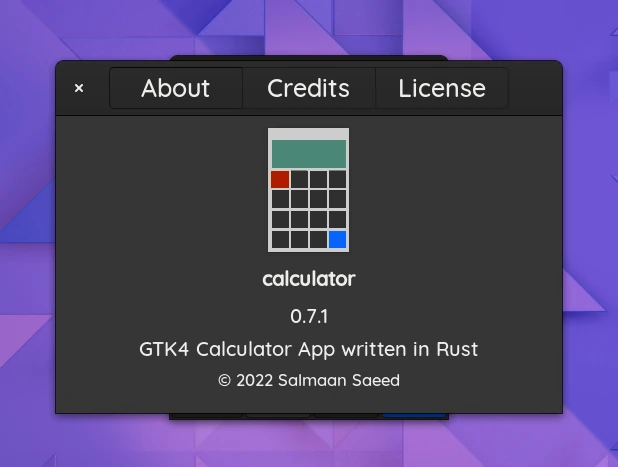
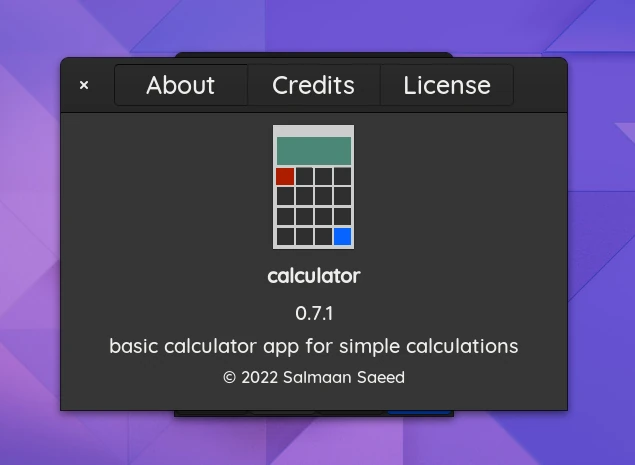
added more information in the cargo config file about my project and display the cargo information in the about dialog

diff --git a/src/ui/mod.rs b/src/ui/mod.rs
@@ -19,6 +19,10 @@ use crate::calculator::{self, Values, Operators};
 use crate::grid;
 
 const APP_VERSION: &str = env!("CARGO_PKG_VERSION"); // get package version from Cargo
+const LICENSE: &str = env!("CARGO_PKG_LICENSE"); // get license of the project
+const DESCRIPTION: &str = env!("CARGO_PKG_DESCRIPTION"); // get the description of the project
+const AUTHORS: &str = env!("CARGO_PKG_AUTHORS"); // get the authors of the project
+const COPYRIGHT_FORMAT: &str = "\u{00A9} 2022 "; // copyright format
 const LOGO_PATH: &str = "src/resources/images/logo.png"; // path to the logo
 const MENU_UI_PATH: &str = "src/resources/ui/menu.ui";
 
@@ -131,10 +135,10 @@ pub fn build_ui(application: &Application) {
                 .modal(true) // freezes the rest of the app from user input
                 .logo(&app_logo.paintable().unwrap())
                 .version(APP_VERSION)
-                .comments("GTK4 Calculator App written in Rust")
-                .copyright("© 2022 Salmaan Saeed")
-                .authors(vec![String::from("Salmaan Saeed")])
-                .license("The 3-Clause BSD License")
+                .comments(DESCRIPTION)
+                .copyright(format!("{}{}", COPYRIGHT_FORMAT, AUTHORS).as_str())
+                .authors(vec![String::from(AUTHORS)])
+                .license(LICENSE)
                 .build();
             
             // Show the about dialog
